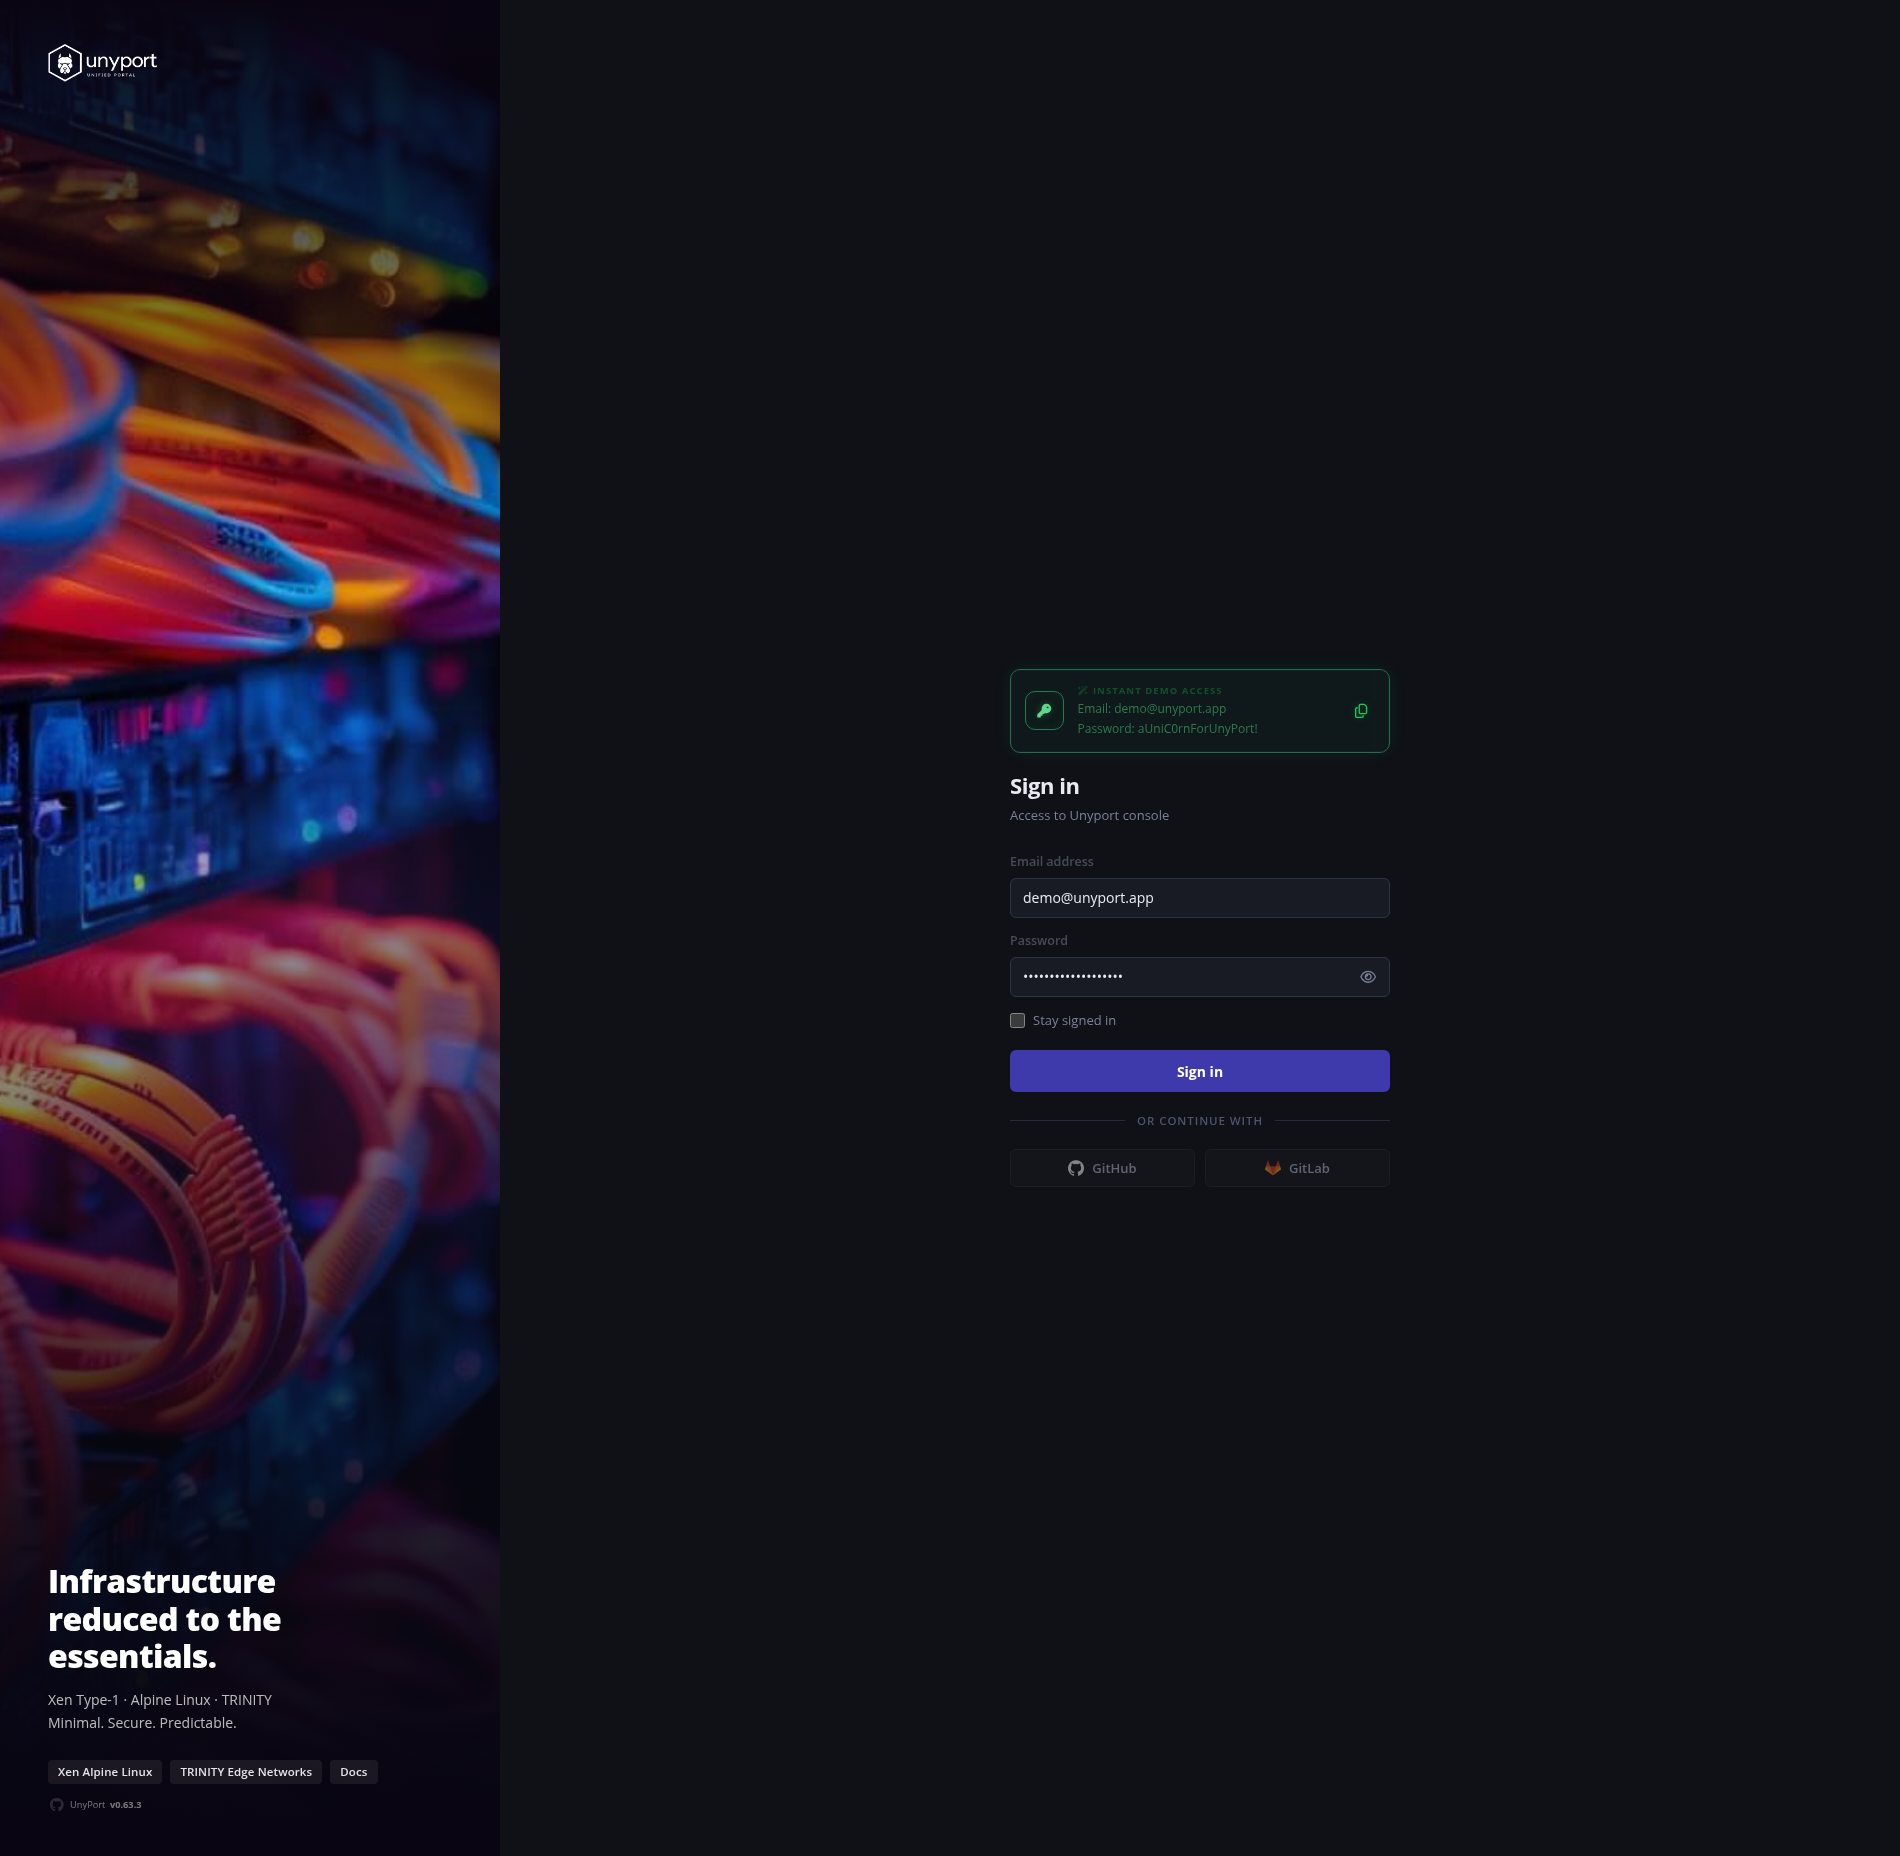
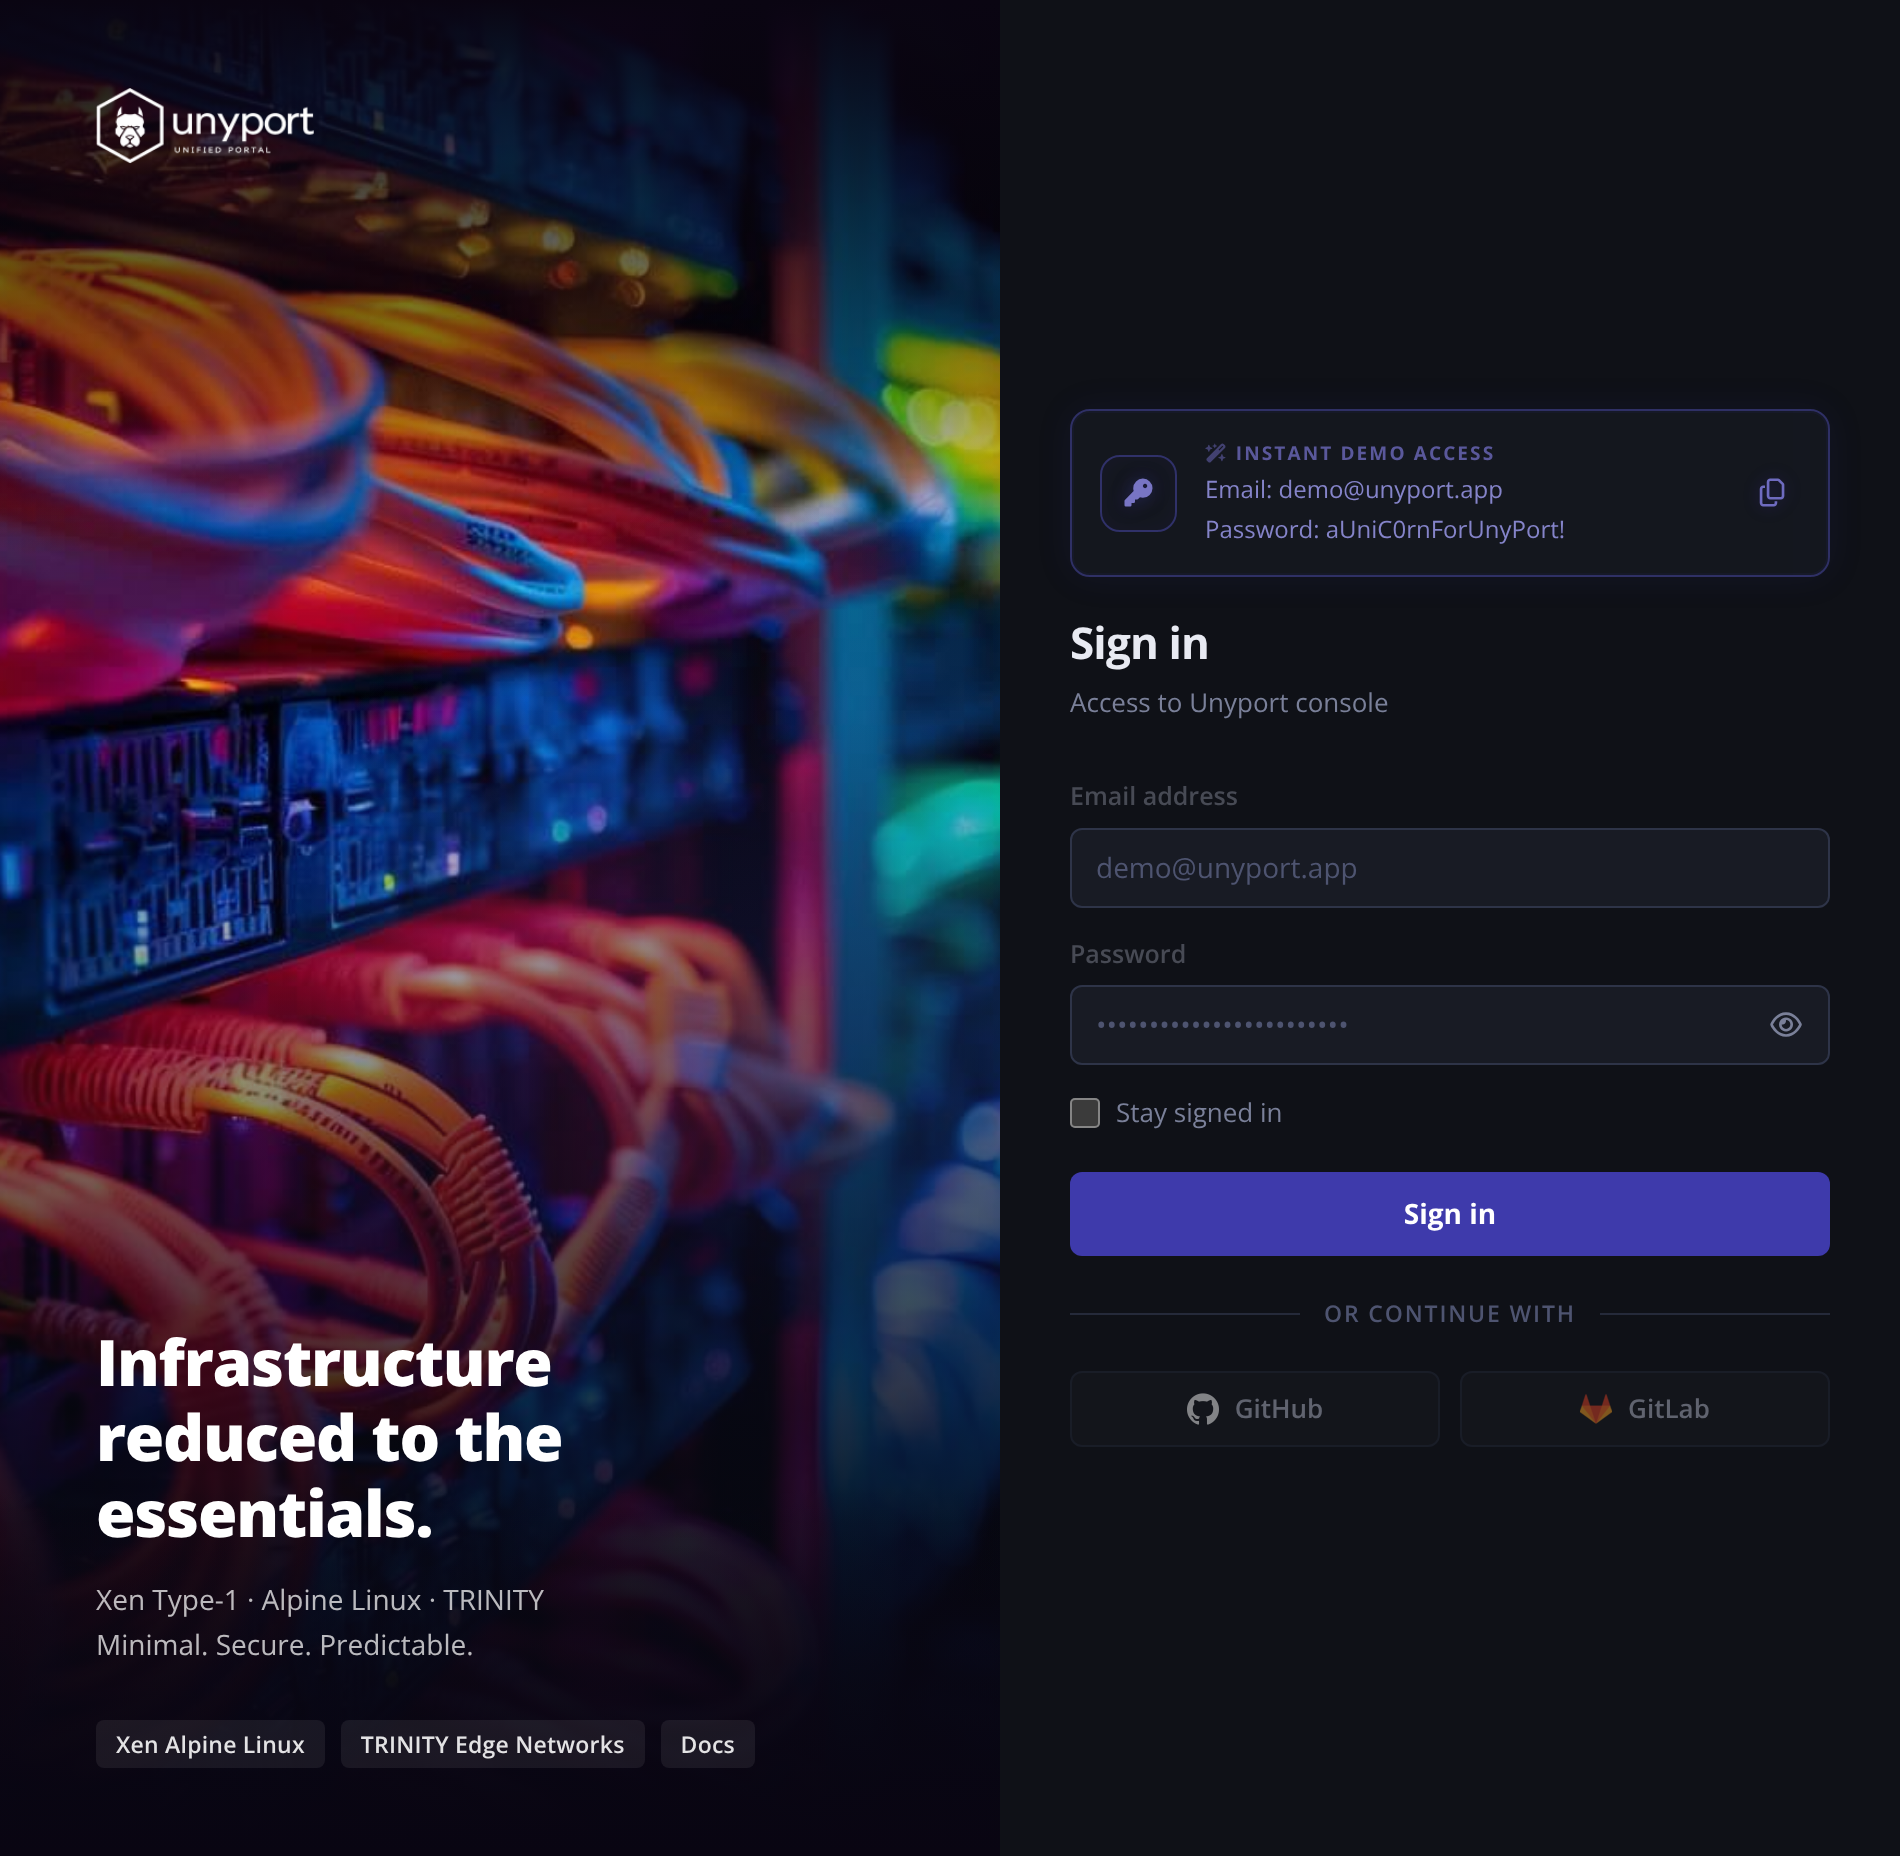
unyport: fix v0.63.4
Automated UnyPort git sync.

Changes in UnyPort v0.63.4:

- Changed `git_assets/img/login.png`
- Changed `unyport/backend/config/version.go`

Stat:
 git_assets/img/login.png          | Bin 1044543 -> 1922511 bytes
 unyport/backend/config/version.go |   2 +-
 2 files changed, 1 insertion(+), 1 deletion(-)

diff --git a/unyport/backend/config/version.go b/unyport/backend/config/version.go
@@ -1,3 +1,3 @@
 package config
 
-const Version = "0.63.3"
+const Version = "0.63.4"
